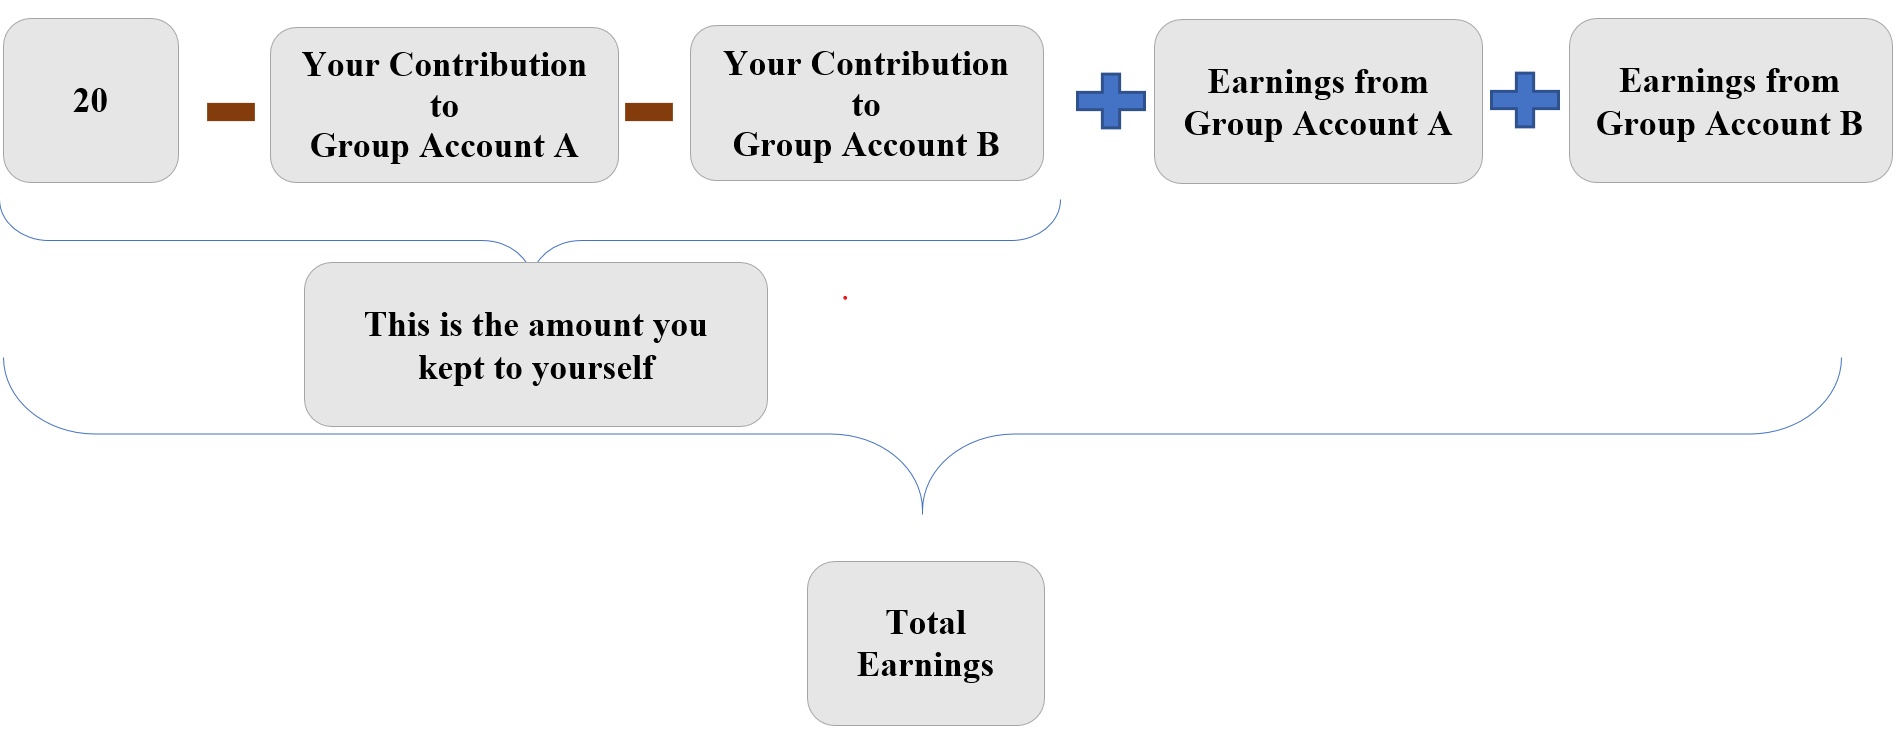
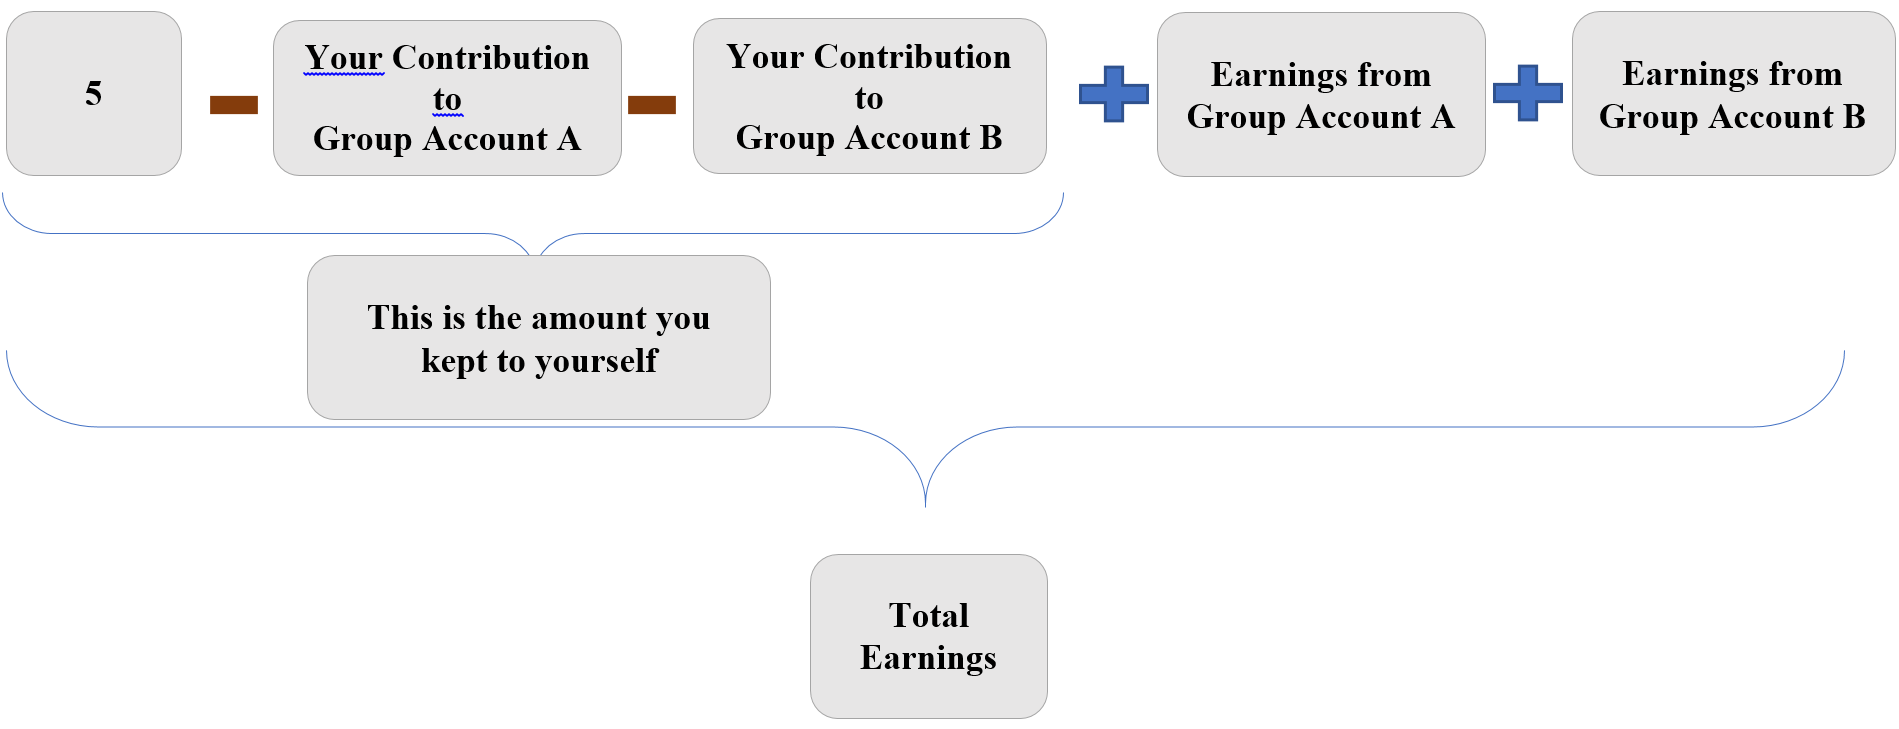
Finished 12

diff --git a/threshold_public_goods/templates/threshold_public_goods/Overview.html b/threshold_public_goods/templates/threshold_public_goods/Overview.html
@@ -26,7 +26,7 @@
 	You will be paid 2 USD for completing the study. Additionally, you will have the opportunity to receive additional bonus payments. <br><br>
 
 	<b>How will payment be made?</b><br>
-	During the study, we will be trading in tokens. At the end of the study, any tokens you have received from the tasks will be converted to USD using the following conversion rate: 20 tokens = 1 USD.<br><br>
+	During the study, we will be trading in tokens. At the end of the study, any tokens you have received from the tasks will be converted to USD using the following conversion rate: 1 token = 1 USD.<br><br>
 
 	This experiment will continue over the next 21 days. Once all participants complete this study, we will determine your bonus payments based on the decisions made in the tasks. This bonus payment will be made via the Prolific platform.<br><br>
 

diff --git a/threshold_public_goods_game/models.py b/threshold_public_goods_game/models.py
@@ -19,17 +19,17 @@ Your app description
 
 
 class Constants(BaseConstants):
-    threshold_high = 60
-    threshold_low = 20
-    value_high = 60
-    value_low = 30
+    threshold_high = 10
+    threshold_low = 6
+    value_high = 10
+    value_low = 7
     total_rounds = 10
-    group_size = 3
+    group_size = 2
     decision_timer=30
     waiting_room_lowerlimit=3
     simultaneous = 1
-    base_tokens = 20
-    increment = 10
+    base_tokens = 5
+    increment = 1
     decision_timer = 30
 
     name_in_url = 'threshold_public_goods_game'

diff --git a/threshold_public_goods/models.py b/threshold_public_goods/models.py
@@ -22,17 +22,17 @@ class Constants(BaseConstants):
     players_per_group = None
     num_rounds = 1
     
-    threshold_high = 60
-    threshold_low = 20
-    value_high = 60
-    value_low = 30
+    threshold_high = 10
+    threshold_low = 6
+    value_high = 10
+    value_low = 7
     total_rounds = 10
-    group_size = 3
+    group_size = 2
     decision_timer=30
     waiting_room_lowerlimit=3
     simultaneous = 1
-    base_tokens = 20
-    increment = 10
+    base_tokens = 5
+    increment = 1
 
 
 class Subsession(BaseSubsession):
